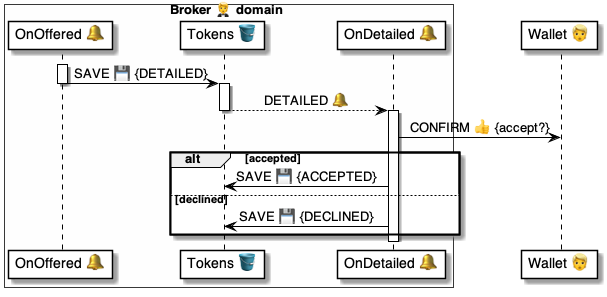
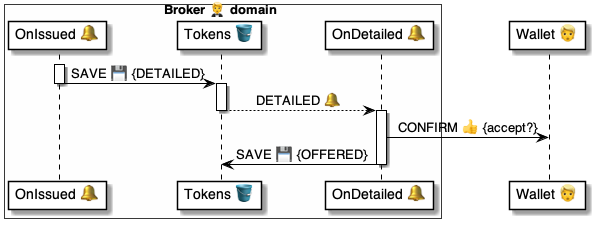
.

diff --git a/4 ⚙ Solution/20 🧑🦰 UI/Brokers 🤵/🤵🪣 Broker tables/Tokens 🎫 table/🪣🔔 3 Offered/🤵 OnTokenOffered 📃 handler.md b/4 ⚙ Solution/20 🧑🦰 UI/Brokers 🤵/🤵🪣 Broker tables/Tokens 🎫 table/🪣🔔 3 Offered/🤵 OnTokenOffered 📃 handler.md
@@ -1,0 +1,42 @@
+# 🤵 OnTokenOffered 📃 handler
+
+
+## Diagram
+
+![alt text](<🤵 OnTokenOffered ⚙ uml.png>)
+
+
+## Script
+
+```yaml
+📃 OnTokenOffered:
+
+# Assert the inputs
+- ASSERT|$Token:
+    AllOf: Wallet, Token, Issuer, Accepted
+    UUIDs: Wallet, Token
+    Texts: Issuer
+    Bools: Accepted
+
+
+IF|$Token.Accepted:
+    Then: # Ask the wallet to save the token
+        SEND:
+            Header:
+                To: $Token.Wallet.Notifier
+                Subject: Save@Notifier
+            Body:
+                Wallet: $Token.Wallet.ID
+                Issuer: $Token.Issuer
+                Token: $Token.Token   
+    Else:
+        # Ignore the token
+        SAVE|$Token:
+            .State: DECLINED
+```
+
+|Uses||
+|-|-
+| [Commands ⌘](<../../../../../35 💬 Chats/Scripts 📃/Command ⌘.md>) | [`ASSERT`](<../../../../../37 Scripts 📃/📃 Commands ⌘/⌘ for holders 🧠/ASSERT 🚦/🚦 ASSERT ⌘ cmd.md>) [`SEND`](<../../../../../37 Scripts 📃/📃 Commands ⌘/⌘ for messages 📨/SEND 📬/📬 SEND ⌘ cmd.md>)
+| [Messages 📨](<../../../../../30 🧩 Data/Messages 📨/📨 Message/📨 Message.md>) | [`Save@Notifier`](<../../../../Notifiers 📣/📣🅰 Notifier methods/Tokens 🎫 Save 🤵🐌📣/📣 Save 🐌 msg.md>)
+|

diff --git a/4 ⚙ Solution/20 🧑🦰 UI/Brokers 🤵/🤵🪣 Broker tables/Tokens 🎫 table/🪣🔔 2 Detailed/🤵 OnTokenDetailed 📃 handler.md b/4 ⚙ Solution/20 🧑🦰 UI/Brokers 🤵/🤵🪣 Broker tables/Tokens 🎫 table/🪣🔔 2 Detailed/🤵 OnTokenDetailed 📃 handler.md
@@ -21,19 +21,15 @@
 - CHAT|$Token.Chat
 
 # Ask for confirmation
-- CONFIRM >> $confirmed:
+- CONFIRM >> $accepted:
     Text: > 
         Accept token?
         - `{$Token.Title}`
 
 # Update with the answer
-- IF|$confirmed:
-    Then:
-        SAVE|$Token:
-            .State: ACCEPTED
-    Else:
-        SAVE|$Token:
-            .State: DECLINED
+SAVE|$Token:
+    .State: OFFERED
+    Accepted: $accepted
 ```
 
 Uses||

diff --git a/4 ⚙ Solution/20 🧑🦰 UI/Brokers 🤵/🤵🪣 Broker tables/Tokens 🎫 table/🪣🔔 1 Issued/🤵 OnTokenIssued 📃 handler.md b/4 ⚙ Solution/20 🧑🦰 UI/Brokers 🤵/🤵🪣 Broker tables/Tokens 🎫 table/🪣🔔 1 Issued/🤵 OnTokenIssued 📃 handler.md
@@ -7,7 +7,7 @@
 
 ## Diagram
 
-![alt text](<🤵 OnTokenOffered ⚙ uml.png>)
+![alt text](<🤵 OnTokenIssued ⚙ uml.png>)
 
 <br/>
 
